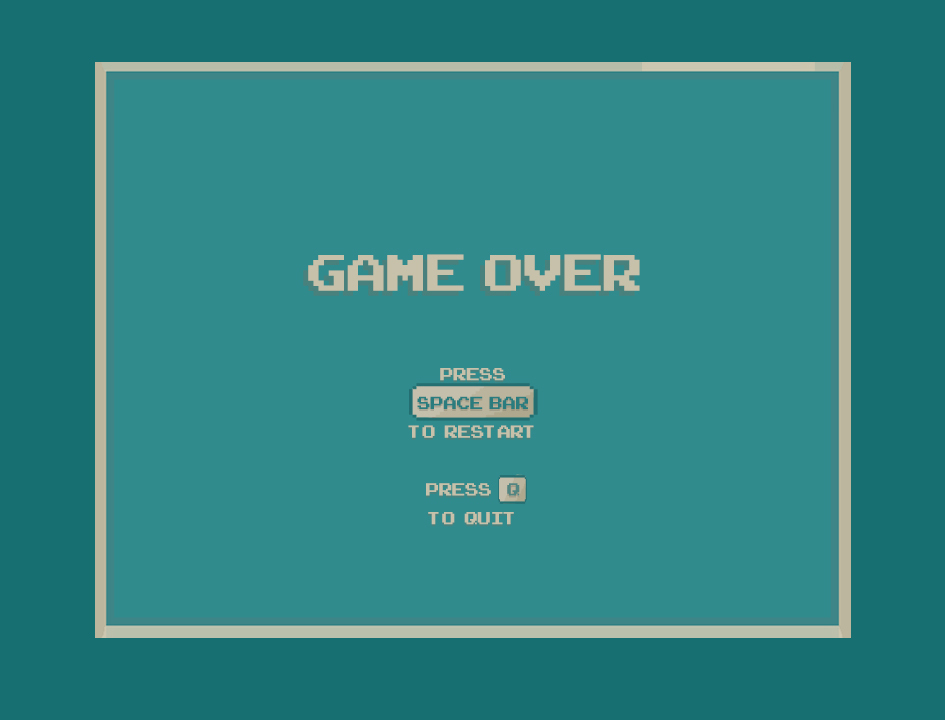
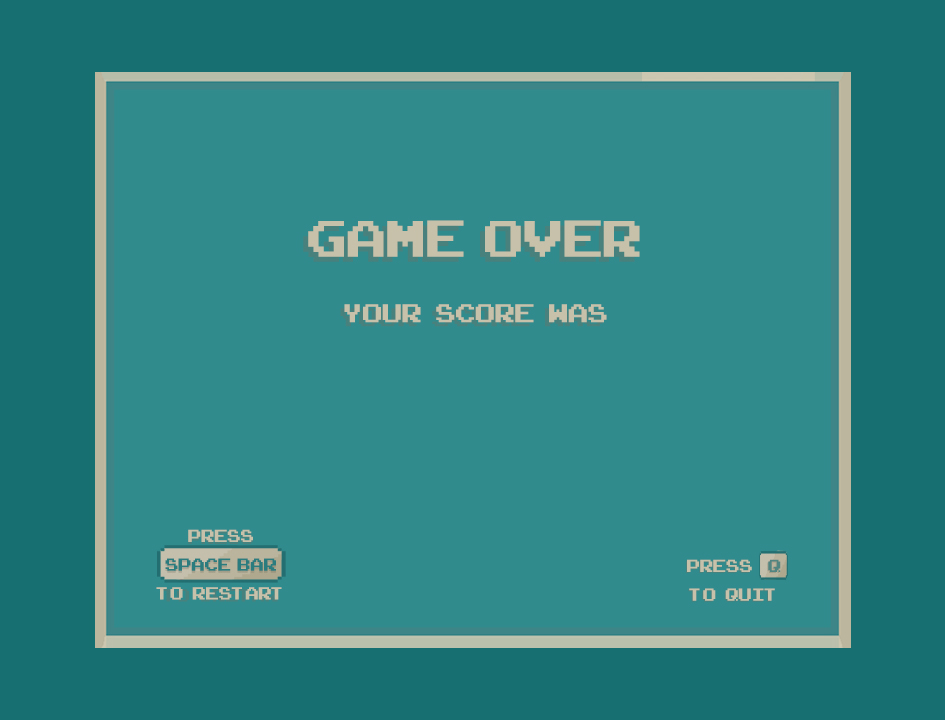
added score on game over

diff --git a/src/Game/Game.java b/src/Game/Game.java
@@ -28,6 +28,7 @@ public class Game {
     private Text coffeeToSpend;
     private Text stageNumber;
     private static Color color = new Color(199, 193, 169);
+    private static Color colorRed = new Color(140, 48, 48);
     private final int DELAY = 800;
     public int stage = 1;
     private final static int COL_NUM = 26;
@@ -67,7 +68,7 @@ public class Game {
 
         coffeeToSpend = new Text(847, 350, "X");
         coffeeToSpend.grow(8, 8);
-        coffeeToSpend.setColor(Color.RED);
+        coffeeToSpend.setColor(colorRed);
         coffeeToSpend.draw();
 
         stageNumber = new Text(865, 440, String.valueOf(stage));
@@ -141,10 +142,17 @@ public class Game {
         if(cpu.getHealth() < 1) {
             Picture picture = new Picture(0, 0, "gameover.jpg");
             picture.draw();
+
+            Text finalScore = new Text(468,370, String.valueOf(bugs[0].getDeadBugs()));
+            finalScore.setColor(colorRed);
+            finalScore.grow(15*String.valueOf(bugs[0].getDeadBugs()).length(),20);
+            finalScore.draw();
+
             isStarted = false;
             while (!isStarted){
                 Thread.yield();
             }
+            finalScore.delete();
             picture.delete();
             restartGame();
             return;
@@ -156,7 +164,9 @@ public class Game {
 
     public void restartGame(){
         cpu.setHealth();
-        coffeeCups[0].setPickedCoffees();
+        CoffeeCup prop = new CoffeeCup(playerGrid);
+        prop.setPickedCoffees();
+        prop.setWasted();
         for(Bug bug: bugs){
             bug.setIsDead();
         }
